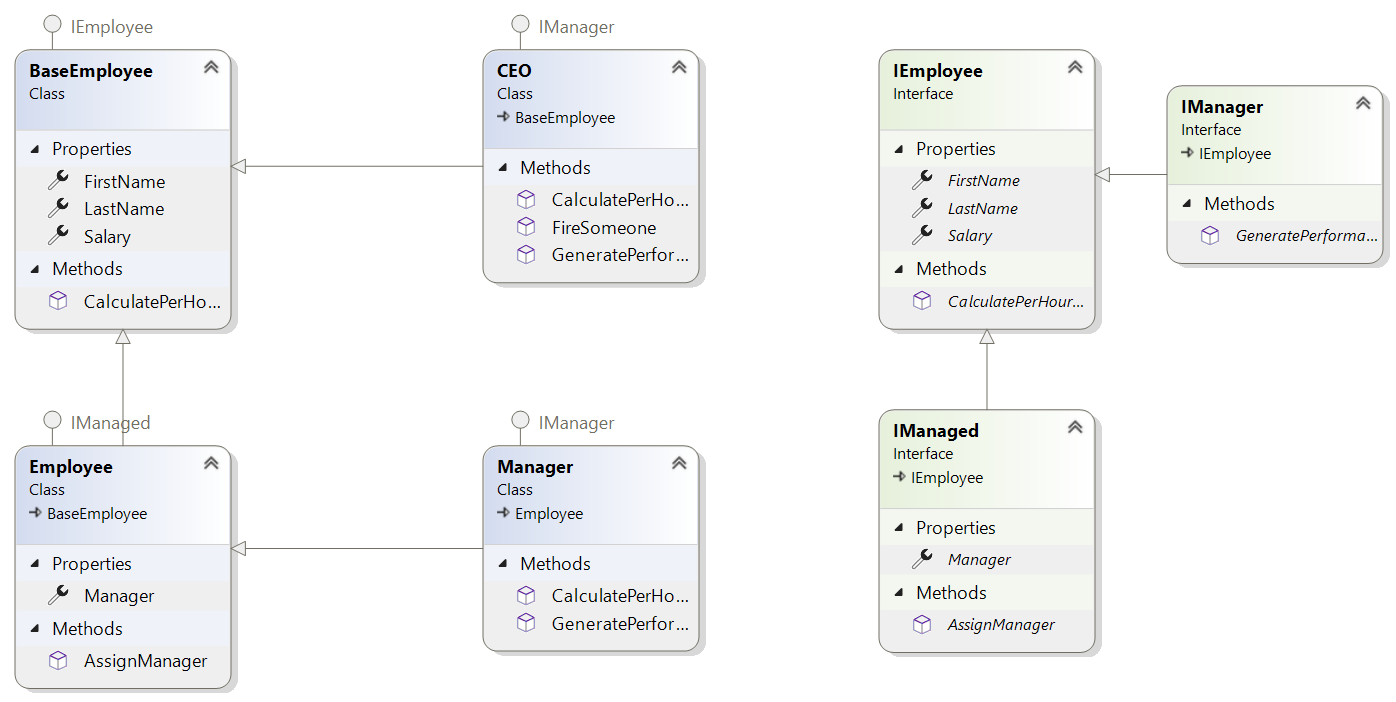
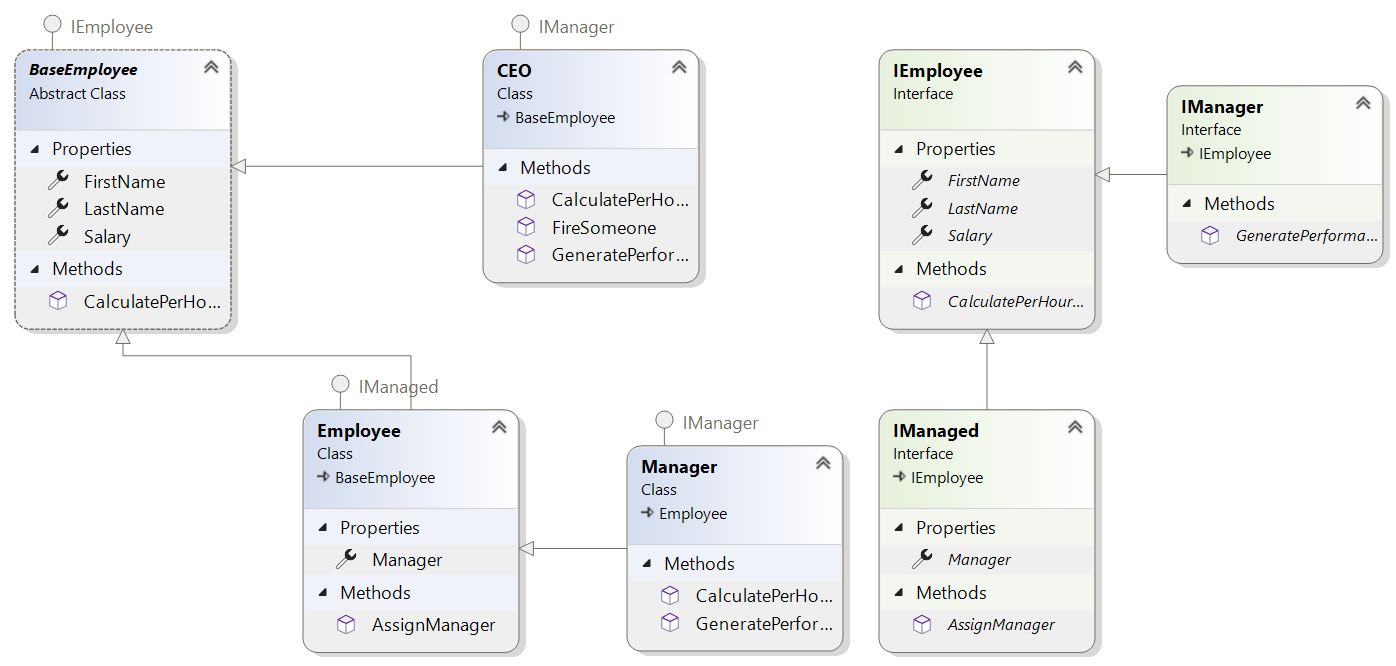
[LSP] modify BaseEmploye to be abstract

diff --git a/Liskove Substitution/DemoLibrary/BaseEmployee.cs b/Liskove Substitution/DemoLibrary/BaseEmployee.cs
@@ -5,7 +5,7 @@ using System.Threading.Tasks;
 
 namespace DemoLibrary
 {
-    public class BaseEmployee : IEmployee
+    public abstract class  BaseEmployee : IEmployee
     {
         public string FirstName { get; set ; }
         public string LastName { get ; set; }
